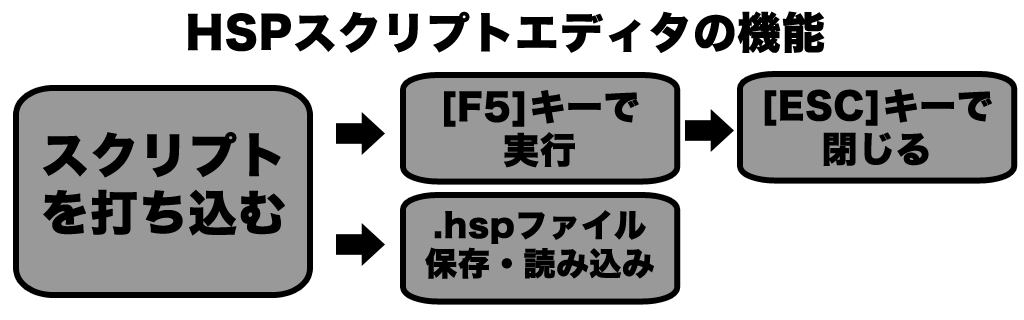
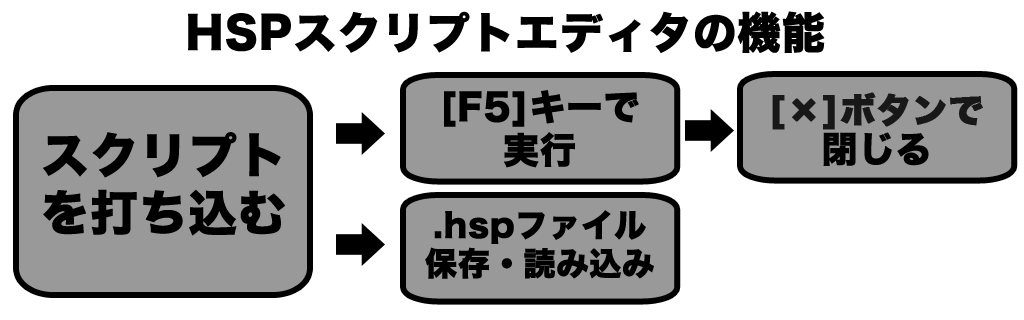
Fix for rpi400
図の[ESC]キーを修正
LeafPad->MousePadに修正

Changed region(s): [[0.7188, 0.2812, 0.9688, 0.4062]]

diff --git a/02/text02.tex b/02/text02.tex
@@ -524,7 +524,7 @@ Figure \stepcounter{Figure}{\theFigure}: HSPスクリプトエディタを起動
 \bigskip
 \bigskip
 
-「HSPスクリプトエディタ」は、LeafPadと同じように好きな文字を打ち込むことができます。文字を直したり、カーソルを好きな場所に移動したりする方法がわからない人は、近くの先生に聞いてみてください。
+「HSPスクリプトエディタ」は、テキストエディタ(MousePad)と同じように好きな文字を打ち込むことができます。文字を直したり、カーソルを好きな場所に移動したりする方法がわからない人は、近くの先生に聞いてみてください。
 
 
 \bigskip
